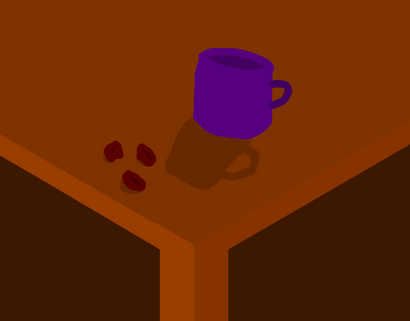
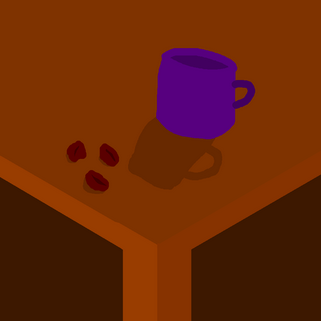
giffed$

diff --git a/woof/index.html b/woof/index.html
@@ -108,6 +108,18 @@
                 text-decoration: none;
             }
 
+            .menu-content a.youtube {
+                color: #FF0000;
+            }
+
+            .menu-content a.twitter {
+                color: #1DA1F2;
+            }
+
+            .menu-content a.twitch {
+                color: #6441A4;
+            }
+
             .menu:hover .menu-content { display: block; }
             .menu:hover .menu-btn { background: #f0f0f0; }
 
@@ -142,7 +154,7 @@
                     </div>
                 </a>
                 <a href="#ComingSoon" class="item">
-                    <img src="data.png" alt="HOI4 Mod">
+                    <img src="data.gif" alt="HOI4 Mod">
                     <div class="text-container">
                         <p>🇬🇧 Disgraced Archangels</p>
                         <p2>Hearts of Iron IV Mod</p2>
@@ -166,9 +178,9 @@
             <div class="menu">
                 <button class="menu-btn">You can also find me on these platforms c: </button>
                 <div class="menu-content">
-                    <a href="https://x.com/kamilluskaw">Twitter</a>
-                    <a href="https://www.twitch.tv/kamilluskaw">Twitch</a>
-                    <a href="https://www.youtube.com/@kamilluskaw">Youtube</a>
+                    <a href="https://x.com/kamilluskaw" class="twitter">Twitter</a>
+                    <a href="https://www.twitch.tv/kamilluskaw" class="twitch">Twitch</a>
+                    <a href="https://www.youtube.com/@kamilluskaw" class="youtube">Youtube</a>
                 </div>
             </div>
         </div>